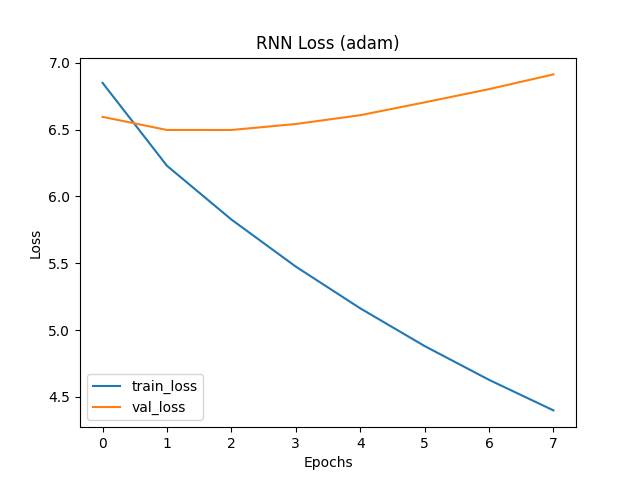
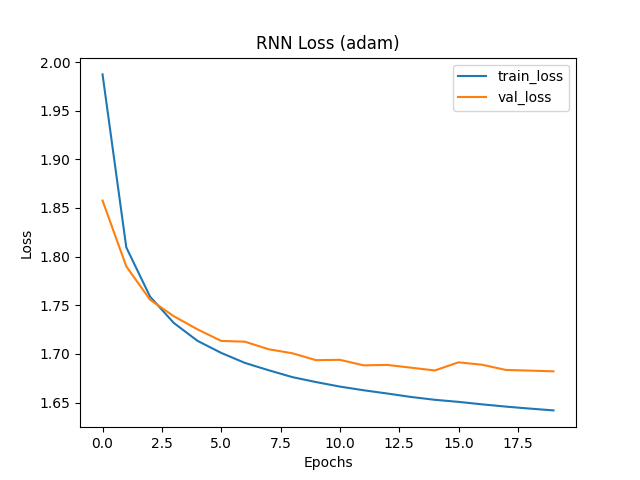
updated 02_preprocess_data.py to do char tokenization using keras tokenizer. Updated 03_train_rnn made model simpler (HIDDEN_DIM = 150 EMBED = 100 RNN LAYERS = 1)

diff --git a/scripts/03_train_rnn.py b/scripts/03_train_rnn.py
@@ -1,4 +1,4 @@
-# 03_train_rnn_char_keras.py
+# 03_train_rnn.py
 
 import os
 import pickle
@@ -20,8 +20,8 @@ PATIENCE = 5
 NUM_CHARS_TO_GENERATE = 200
 SEED_TEXT = "دل کی بات "
 NUM_SAMPLES = 3
-EMBED_DIM = 256
-HIDDEN_DIM = 512
+EMBED_DIM = 100
+HIDDEN_DIM = 150
 DEVICE = torch.device("cuda" if torch.cuda.is_available() else "cpu")
 
 # Check GPU
@@ -66,13 +66,11 @@ class SimpleRNNModel(nn.Module):
     def __init__(self, vocab_size, embed_dim, hidden_dim):
         super(SimpleRNNModel, self).__init__()
         self.embedding = nn.Embedding(vocab_size, embed_dim)
-        self.embedding_dropout = nn.Dropout(0.2)
-        self.rnn = nn.RNN(embed_dim, hidden_dim, num_layers=3, batch_first=True, dropout=0.4)
+        self.rnn = nn.RNN(embed_dim, hidden_dim,batch_first=True)
         self.fc = nn.Linear(hidden_dim, vocab_size)
         
     def forward(self, x):
         x = self.embedding(x)
-        x = self.embedding_dropout(x)
         out, _ = self.rnn(x)
         out = self.fc(out[:, -1, :])  # last time step
         return out

diff --git a/scripts/02_preprocess_data.py b/scripts/02_preprocess_data.py
@@ -1,4 +1,4 @@
-# 02_preprocess_data_char_keras.py
+# 02_preprocess_data.py
 
 import pandas as pd
 from datasets import load_dataset
@@ -73,9 +73,6 @@ input_sequences = pad_sequences(input_sequences, maxlen=MAX_SEQ_LEN, padding='pr
 # Split into X and y
 X = input_sequences[:, :-1]
 y = input_sequences[:, -1]
-
-# Convert y to one-hot vectors
-y = to_categorical(y, num_classes=vocab_size)
 
 print("Number of sequences:", len(X))
 print("Input shape:", X.shape, "Output shape:", y.shape)
